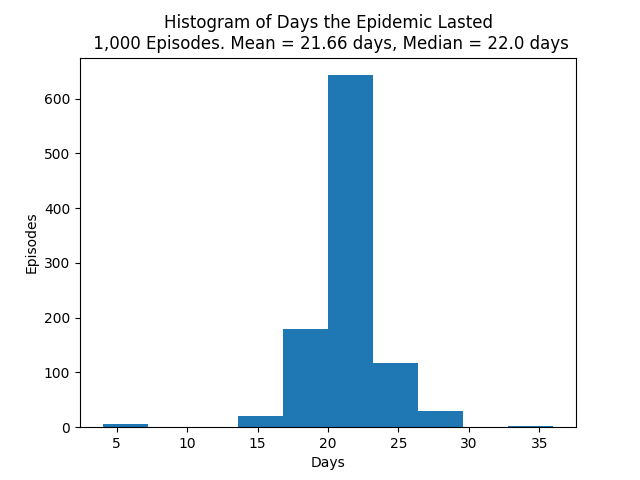
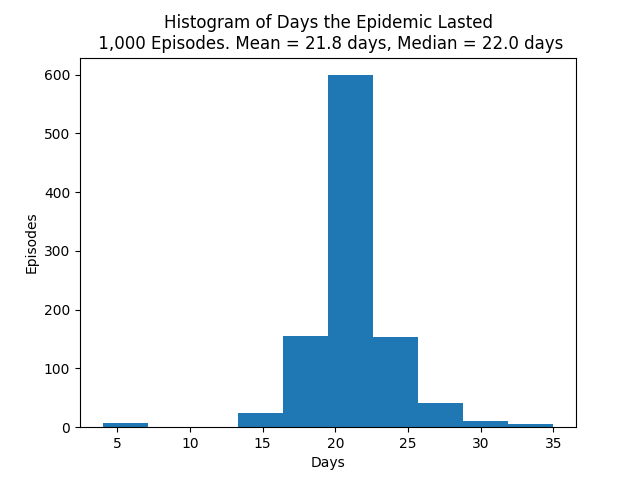
Completed another 20+ hour simulation. Now have data for weekend T/F

diff --git a/src/charts.py b/src/charts.py
@@ -4,6 +4,7 @@ import matplotlib.pyplot as plt
 import pandas as pd
 import pathlib
 from scipy.stats import norm
+from statistics import median
 
 data_dir = pathlib.Path.cwd() / 'data'
 data_dir.mkdir(parents=True, exist_ok=True)
@@ -11,12 +12,14 @@ data_dir.mkdir(parents=True, exist_ok=True)
 fig_dir = pathlib.Path.cwd() / 'figs'
 fig_dir.mkdir(parents=True, exist_ok=True)
 
-expected_df = pd.read_csv(data_dir / 'Flu_Pandemic_10000_weekend_True.csv')
-
 eps=10000
 weekend_check=True
-_mean = 26.6
-_median = 22.0
+
+expected_df = pd.read_csv(data_dir / f'Flu_Pandemic_{eps}_weekend_{weekend_check}.csv')
+
+_mean = round(expected_df["Mean"].mean(), 2)
+_median = round(median(expected_df["Mean"]), 2)
+_total = round(sum(expected_df["Mean"]), 0)
 
 # evaluate the histogram
 hist, bins = np.histogram(expected_df['Mean'], bins=len(expected_df['Mean']), range=[1, len(expected_df['Mean'])])
@@ -27,7 +30,7 @@ plt.legend(loc='upper left', frameon=False)
 plt.grid()
 
 
-title = f'Line Chart of Infections: {eps:,} Episodes.\nMean = {_mean} infections, Median = {_median} infections'
+title = f'Line Chart of Infections: {eps:,} Episodes.\nPer Day: Mean = {_mean},  Median = {_median}\nTotal = {_total} infections'
 
 plt.title(title)
 plt.xlabel('Days')

diff --git a/src/mp2.py b/src/mp2.py
@@ -48,7 +48,7 @@ parser.add_argument(
     help="Account for no school on Weekends",
     type=str2bool,
     dest='weekend_check',
-    default=True
+    default=False
 )
 parser.add_argument(
     "-eps",
@@ -297,9 +297,9 @@ def main():
     title = f'Line Chart of Infections: {eps:,} Episodes.\nMean = {round(expected_df["Mean"].mean(), 2)} infections, Median = {round(median(expected_df["Mean"]), 2)} infections'
 
     # evaluate the histogram
-    hist, bins = np.histogram(expected_df['Mean'], bins=n_days, range=[0, n_days])
+    hist, bins = np.histogram(expected_df['Mean'], bins=len(expected_df['Mean']), range=[1, len(expected_df['Mean'])])
     offset = bins[1:] - bins[:-1]
-    plt.plot(bins[:-1] + offset, np.cumsum(hist), c='blue', label='Cumulative Infections')
+    plt.plot(bins[:-1] + offset, np.cumsum(expected_df['Mean']), c='blue', label='Cumulative Infections')
     plt.plot(expected_df['Mean'], c='red', label='Daily Infections')
     plt.legend(loc='upper left', frameon=False)
     plt.grid()
